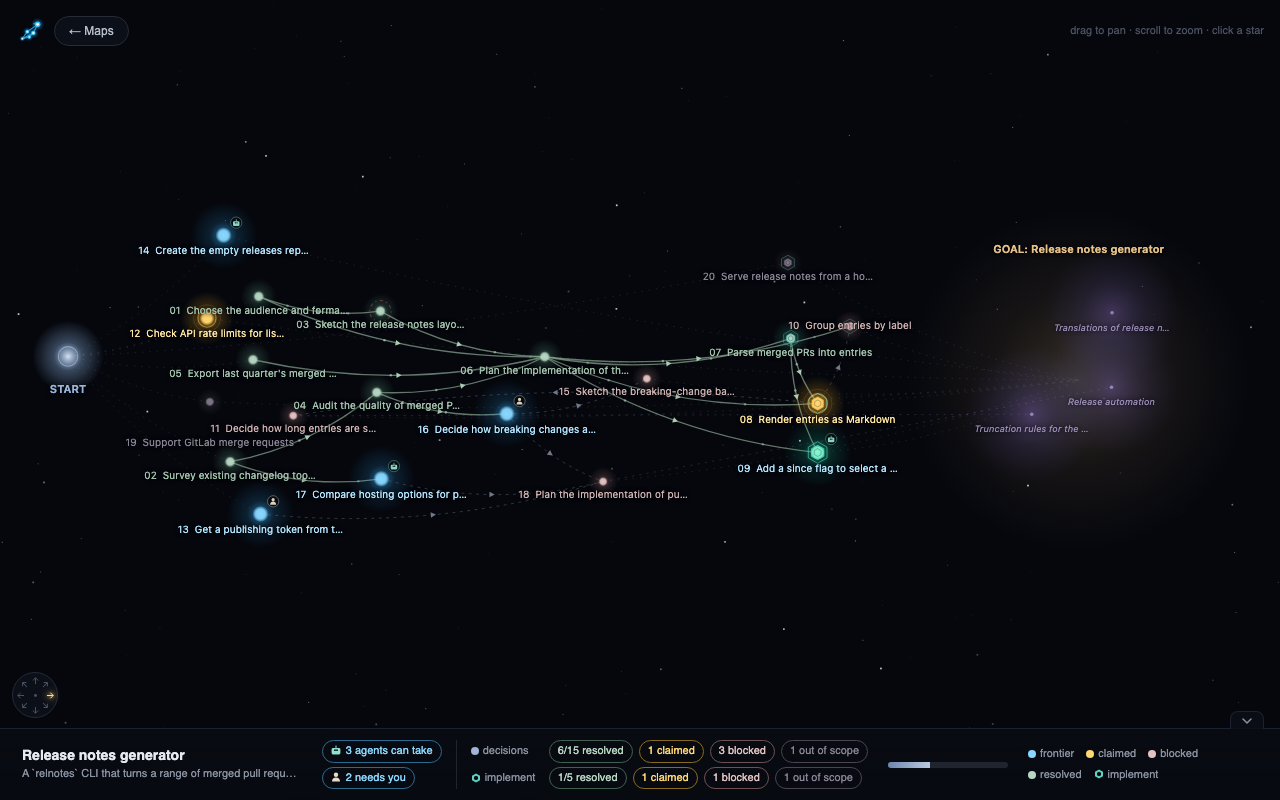
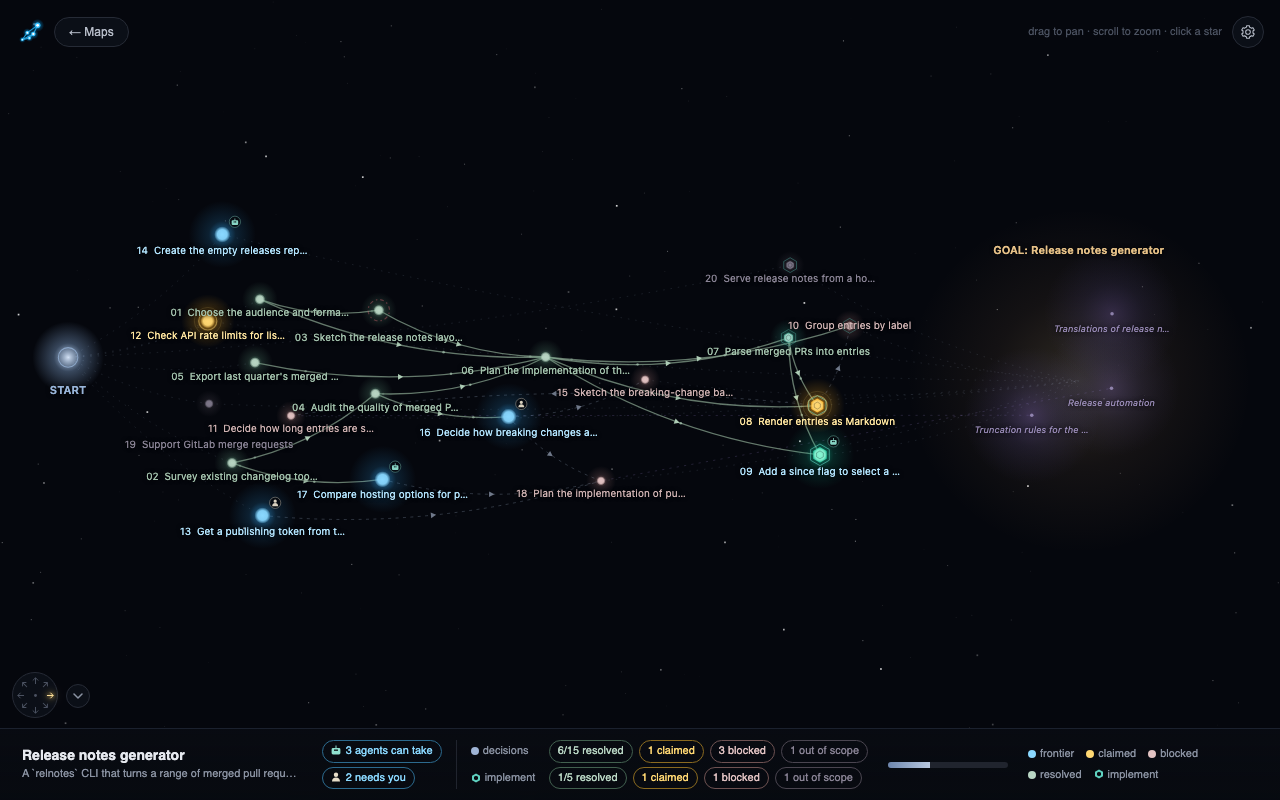
feat(viewer): keep the status bar fold button next to the compass (v0.15.1)
Refs #57

diff --git a/cmd/wayfinder-maps/web/style.css b/cmd/wayfinder-maps/web/style.css
@@ -14,21 +14,21 @@ html,body{margin:0;height:100%;overflow:hidden;background:#05070d;
   transition:transform .24s cubic-bezier(.2,.7,.2,1),opacity .24s}
 body.panelopen #hud{transform:translateY(105%);opacity:0;pointer-events:none}
 #hud.folded>:not(.htitle):not(.hudfold){display:none}
-#hud .hudfold{position:absolute;right:16px;top:0;transform:translateY(-100%);width:34px;height:18px;padding:0;
+#hud .hudfold{position:absolute;left:66px;top:-45px;width:24px;height:24px;padding:0;
   display:flex;align-items:center;justify-content:center;cursor:pointer;color:#8b93a3;
-  background:rgba(11,14,21,.85);border:1px solid #1b212e;border-bottom:0;border-radius:8px 8px 0 0}
+  background:rgba(14,18,26,.72);border:1px solid #262b36;border-radius:50%;backdrop-filter:blur(8px)}
 #hud .hudfold:hover{color:#e6e9ef}
 #hud .hudfold svg{width:10px;height:6px;fill:none;stroke:currentColor;stroke-width:1.5;stroke-linecap:round;stroke-linejoin:round;transition:transform .2s}
 #hud.folded .hudfold svg{transform:rotate(180deg)}
-/* Folded: the bar becomes a bottom-left corner holding the compass, the title and the toggle. */
+/* The toggle sits right of the compass, centred on it, in both states. Folded: the bar becomes a bottom-left corner holding the compass, the toggle and the title. */
 body.hudfolded #hud{right:auto;max-width:min(340px,calc(100vw - 24px));min-height:62px;flex-wrap:nowrap;gap:10px;
-  padding:8px 12px 8px 70px;border-right:1px solid #1b212e;border-radius:0 14px 0 0;
+  padding:8px 12px 8px 66px;border-right:1px solid #1b212e;border-radius:0 14px 0 0;
   background:rgba(9,12,19,.82)}
 body.hudfolded #hud .htitle{flex:0 1 auto;min-width:0}
 body.hudfolded #hud .dest{display:none}
 #hud .tshort,body.hudfolded #hud .tfull{display:none}
 body.hudfolded #hud .tshort{display:inline}
-body.hudfolded #hud .hudfold{position:static;transform:none;flex:none;width:24px;height:24px;border:1px solid #1b212e;border-radius:50%}
+body.hudfolded #hud .hudfold{position:static;order:-1;flex:none}
 body.hudfolded #compass{bottom:8px}
 #hud .htitle{min-width:110px;flex:1 1 180px}
 #hud h1{font-size:14px;font-weight:600;margin:0;line-height:1.25;

diff --git a/docs/features/narrow-screens.md b/docs/features/narrow-screens.md
@@ -10,14 +10,15 @@ The bottom status bar wraps onto extra rows instead of running off the edge, so 
 
 ## Collapsing the status bar
 
-The small arrow on the bar collapses it into a bottom-left corner holding the map title (cut off with "..." after 24 characters) and the compass, so the map gets the full width back.
-The arrow in the corner expands it again, and the choice is remembered.
+The round arrow button right of the compass collapses the bar into a bottom-left corner holding the compass, the button and the map title (cut off with "..." after 24 characters), so the map gets the full width back.
+The button stays in the same spot beside the compass, expanded or collapsed, on wide and narrow screens alike.
+Click it again to expand the bar, and the choice is remembered.
 
 ![The status bar at 360px wide, expanded and collapsed into a corner with the title and compass](../images/hud-fold.png)
 
-![The status bar expanded on a wide screen: title, counts, progress bar and legend along the bottom, with the compass above it](../images/hud-expanded.png)
+![The status bar expanded on a wide screen: title, counts, progress bar and legend along the bottom, with the compass and the collapse arrow above its left end](../images/hud-expanded.png)
 
-![The status bar collapsed on a wide screen: a bottom-left corner with the map title, the compass beside it and an expand arrow](../images/hud-collapsed.png)
+![The status bar collapsed on a wide screen: a bottom-left corner with the compass, the expand arrow beside it and the map title](../images/hud-collapsed.png)
 
 ## Top bar
 

diff --git a/docs/features/index.md b/docs/features/index.md
@@ -17,7 +17,7 @@ A map with no implement tickets reads exactly as it does upstream.
 | [Compass](compass.md) | The map flows in any of 8 directions or radially |
 | [Tickets placed by age](age-layout.md) | Later tickets drift toward the goal without stretching the map |
 | [Settings menu](settings.md) | A gear popover for viewer toggles with hover notes, saved across restarts; the first is Freeze nodes, which stops the idle drift of the stars |
-| [Narrow-screen layout](narrow-screens.md) | Wrapping top bar and a status bar that collapses to a corner with the title and compass |
+| [Narrow-screen layout](narrow-screens.md) | Wrapping top bar and a status bar that collapses to a corner, its toggle always beside the compass |
 | [`pull` in the binary](pull.md) | GitHub-issue maps mirrored into `.plan/`, with account choice and progress |
 | [Refresh button](pull.md#refresh-from-the-viewer) | The same pull from the viewer |
 | [Open from GitHub](open-from-github.md) | Find a map in a repo and open it from the splash, with account choice, no `pull` first |

diff --git a/docs/features/compass.md b/docs/features/compass.md
@@ -2,6 +2,7 @@
 
 A small compass in the bottom left corner points the map any of 8 ways, and the centre button drops the direction for the original radial layout.
 East (left to right) is the default.
+The arrow button right of the dial folds and unfolds the [status bar](narrow-screens.md#collapsing-the-status-bar) and stays beside it either way.
 The choice is saved in `settings.json` next to `recents.json` in your user config directory, so it survives restarts.
 
 ![The same map in four layouts: east, south, south-east and radial, with the compass dial in the bottom left highlighting the chosen direction](../images/compass-directions.png)
